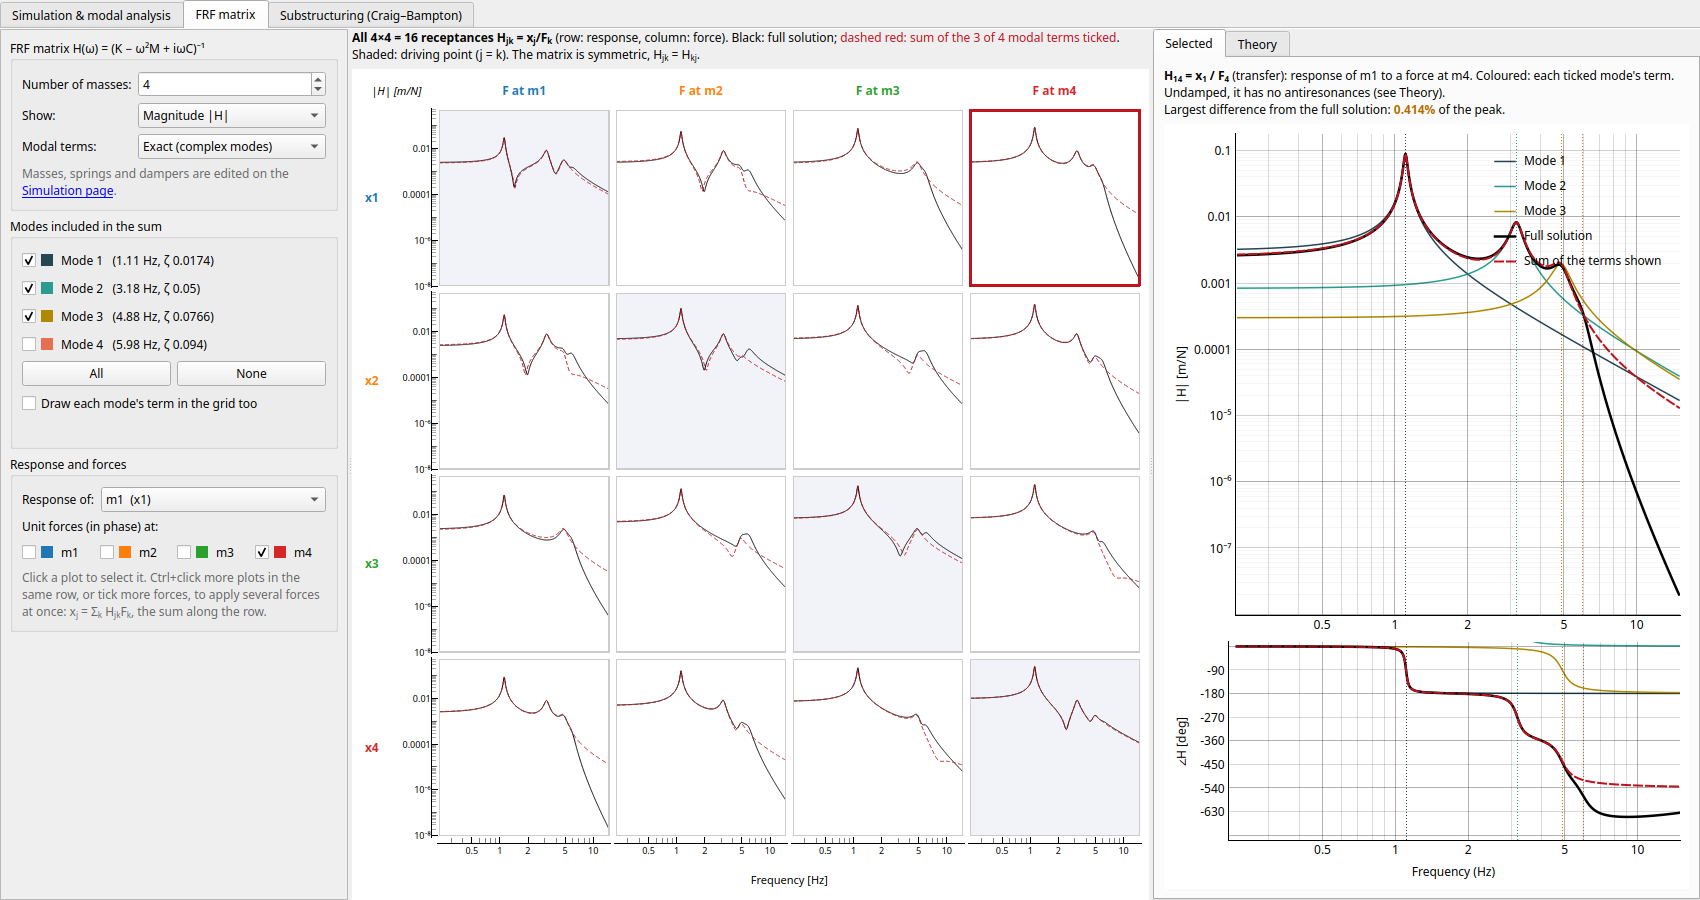
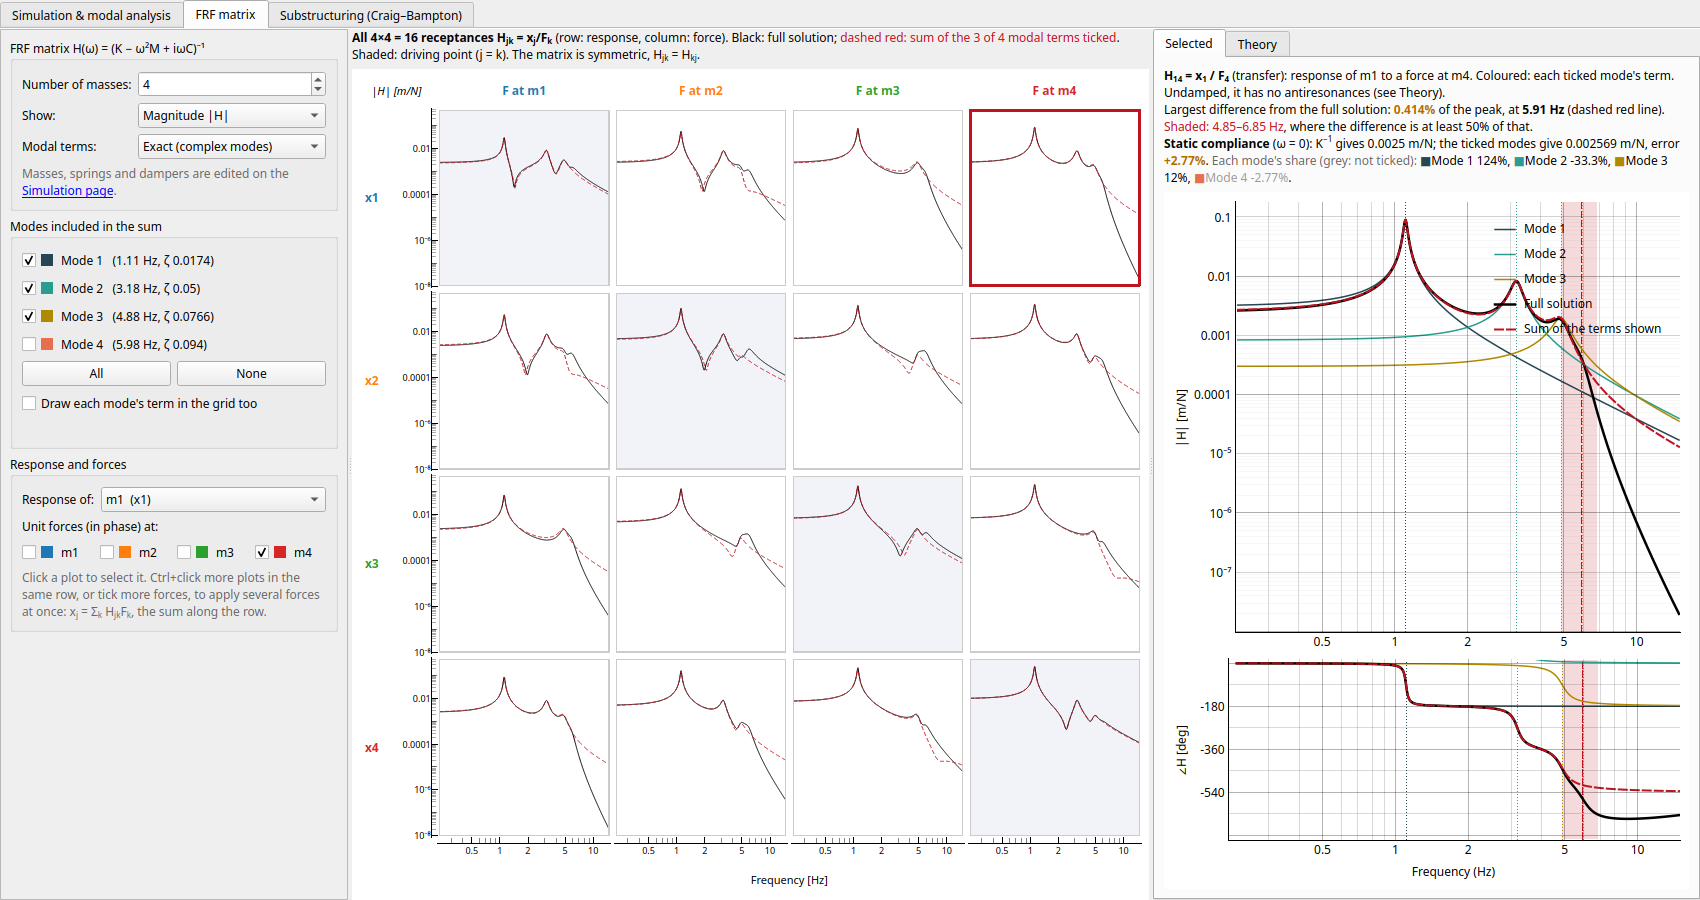
FRF matrix page: static compliance check for the modal sum
The detail header compares the ticked modes' sum at w = 0 with K^-1
(signed error) and lists every mode's share of the static compliance;
a singular K (rigid-body chain) is reported instead. Theory notes, README
and screenshot updated.

Claude-Session: https://claude.ai/code/session_017R5NSXURS9H71mvfW1Frcg

Changed region(s): [[0.6859, 0.1244, 0.9976, 0.9333], [0.9041, 0.0933, 0.9665, 0.1244]]

diff --git a/src/vib_tutorial/gui/frf_matrix.py b/src/vib_tutorial/gui/frf_matrix.py
@@ -358,6 +358,8 @@ class FrfMatrixPage(QtWidgets.QWidget):
         self.H = np.zeros((0, 0, 0), dtype=complex)  # (F, n, n) full solution
         self.terms: list[ModalTerm] = []
         self.term_H = np.zeros((0, 0, 0, 0), dtype=complex)  # (R, F, n, n)
+        self.static = None  # K^-1, the static compliance; None if the chain can move as a rigid body
+        self.term_static = np.zeros((0, 0, 0))  # (R, n, n) each term at w = 0
         self.term_colors: list[str] = []
         self.expansion_note = ""
         self.output = 0
@@ -554,6 +556,8 @@ class FrfMatrixPage(QtWidgets.QWidget):
             self._build_io(n)
         self.freqs = frequency_grid(self.result, FREQ_POINTS)
         self.H = frf_matrix(system, self.freqs)
+        K = system.matrices()[2]
+        self.static = np.linalg.inv(K) if np.linalg.cond(K) < 1e12 else None
         self._recompute_terms()
 
     def _build_io(self, n: int) -> None:
@@ -601,6 +605,9 @@ class FrfMatrixPage(QtWidgets.QWidget):
             )
         self.terms = terms
         self.term_H = np.stack([t.evaluate(self.freqs) for t in terms])
+        with np.errstate(divide="ignore", invalid="ignore"):
+            # Imaginary parts cancel at w = 0 (a pair's two terms are conjugates).
+            self.term_static = np.stack([t.evaluate(np.zeros(1))[0].real for t in terms])
         self.term_colors = []
         roots = 0
         for t in terms:
@@ -711,7 +718,29 @@ class FrfMatrixPage(QtWidgets.QWidget):
         if int(sel.sum()) == 0:
             verdict = "No modes ticked: the sum is zero."
         note = f"<br><span style='color:#666'>{self.expansion_note}</span>" if self.expansion_note else ""
-        return f"{title} {parts}<br>{verdict}{note}"
+        return f"{title} {parts}<br>{verdict}<br>{self._static_text(j, inputs, sel)}{note}"
+
+    def _static_text(self, j: int, inputs: list[int], sel: np.ndarray) -> str:
+        """Static compliance (w = 0): the ticked modes' sum vs K^-1, and each mode's share."""
+        if self.static is None:
+            return ("<b>Static compliance</b> (ω = 0): none. K is singular, so the chain can move "
+                    "as a rigid body and a steady force has no static deflection.")
+        full = float(self.static[j, inputs].sum())
+        each = self.term_static[:, j, inputs].sum(axis=1)
+        partial = float(each[sel].sum())
+        err = (partial - full) / full if full else 0.0
+        color = "#2a7d2a" if abs(err) < 1e-6 else "#b36b00" if abs(err) < 0.05 else SELECT_COLOR
+        amount = "0% (exact)" if abs(err) < 1e-9 else f"{100 * err:+.3g}%"
+        shares = []
+        for t, c, value, on in zip(self.terms, self.term_colors, each, sel):
+            share = f"{100 * value / full:.3g}%" if full and np.isfinite(value) else "—"
+            style = "" if on else " style='color:#999'"
+            shares.append(f"<span style='color:{c}'>■</span><span{style}>{t.label} {share}</span>")
+        return (
+            f"<b>Static compliance</b> (ω = 0): K<sup>−1</sup> gives {full:.4g} m/N; the ticked "
+            f"modes give {partial:.4g} m/N, error <b style='color:{color}'>{amount}</b>. "
+            f"<span style='color:#666'>Each mode's share (grey: not ticked):</span> {', '.join(shares)}."
+        )
 
 
 THEORY_HTML = """
@@ -772,6 +801,13 @@ misses. The missing high modes act almost like springs there (their <i>residual 
 Σ φ<sub>jr</sub>φ<sub>kr</sub>/ω<sub>r</sub>²), and leaving them out shifts the antiresonances.
 Compare the <b>real part</b>: the terms add directly, so you can see the offset left by a
 missing mode.</p>
+<p>At ω = 0 the sum of every mode is the <b>static compliance</b> K<sup>−1</sup> =
+Σ<sub>r</sub> φ<sub>r</sub>φ<sub>r</sub><sup>T</sup>/ω<sub>r</sub>² (damping plays no part
+there, so even the classical sum is exact). Each mode's share of it is
+φ<sub>jr</sub>φ<sub>kr</sub>/ω<sub>r</sub>² divided by the total, which is why the high modes
+matter so little statically: their share falls as 1/ω<sub>r</sub>². The header of the large plot
+lists every mode's share and the error of the ticked ones. That error is the residual
+flexibility that a truncated model leaves out.</p>
 
 <h3>Non-proportional damping</h3>
 <p>The formula above keeps only the diagonal of Φ<sup>T</sup>CΦ. With non-proportional damping

diff --git a/tests/test_gui_smoke.py b/tests/test_gui_smoke.py
@@ -233,13 +233,19 @@ def test_frf_matrix_page(app):
     assert len(page.grid.cells) == n and len(page.mode_checks) == n
     assert (page.output, page.inputs) == (n - 1, {n - 1})
     assert "none" in page.detail.header.text()  # all modes: the sum is the full solution
-    assert "Shaded" not in page.detail.header.text()
+    assert "Shaded" not in page.detail.header.text() and "0% (exact)" in page.detail.header.text()
 
     # Truncate to mode 1: the driving-point sum now misses the full solution.
     page._check_all(False)
     page.mode_checks[0].setChecked(True)
     assert page.selected_terms().tolist() == [True] + [False] * (n - 1)
     assert "%" in page.detail.header.text() and "Shaded" in page.detail.header.text()
+    # Static compliance of mode 1 alone, against K^-1.
+    K = w.sim.system.matrices()[2]
+    phi = w.modal.modes[0].shape_mass_normalized
+    static = np.linalg.inv(K)[n - 1, n - 1]
+    one = phi[n - 1] ** 2 / w.modal.modes[0].omega_n ** 2
+    assert f"{100 * (one - static) / static:+.3g}%" in page.detail.header.text()
 
     # Clicking selects a cell; Ctrl+click adds another force in the same row.
     page._on_cell(0, 1, False)
@@ -270,7 +276,7 @@ def test_frf_matrix_page(app):
     # A free (rigid-body) chain falls back to the classical expansion.
     w.params.rows[0][2].setValue(0.0)
     w.params.rows[0][3].setValue(0.0)
-    assert "not available" in page.detail.header.text()
+    assert "not available" in page.detail.header.text() and "rigid body" in page.detail.header.text()
     app.processEvents()  # let queued axis relayouts run before teardown
     w.close()
 

diff --git a/README.md b/README.md
@@ -91,7 +91,9 @@ plots (row: response, column: force), on shared axes so their sizes compare dire
   shows the selected term as magnitude with phase, or real with imaginary part.
 - **Modes included in the sum**: each term is a sum of one term per mode. Untick modes to see
   the truncated modal sum (dashed red) against the full solution (black), and each mode's term
-  in its own colour. The real part shows best how the terms add.
+  in its own colour. The real part shows best how the terms add. The large plot shades the
+  frequency band where the sum differs most from the full solution, and lists the **static
+  compliance** (ω = 0): the ticked modes' sum against K⁻¹, and each mode's share of it.
 - **Exact or classical terms**: the exact expansion uses the complex (state-space) modes and
   always sums to the full solution. The classical one uses the real modes with ζ modal, and
   misses even with every mode when damping is non-proportional.
